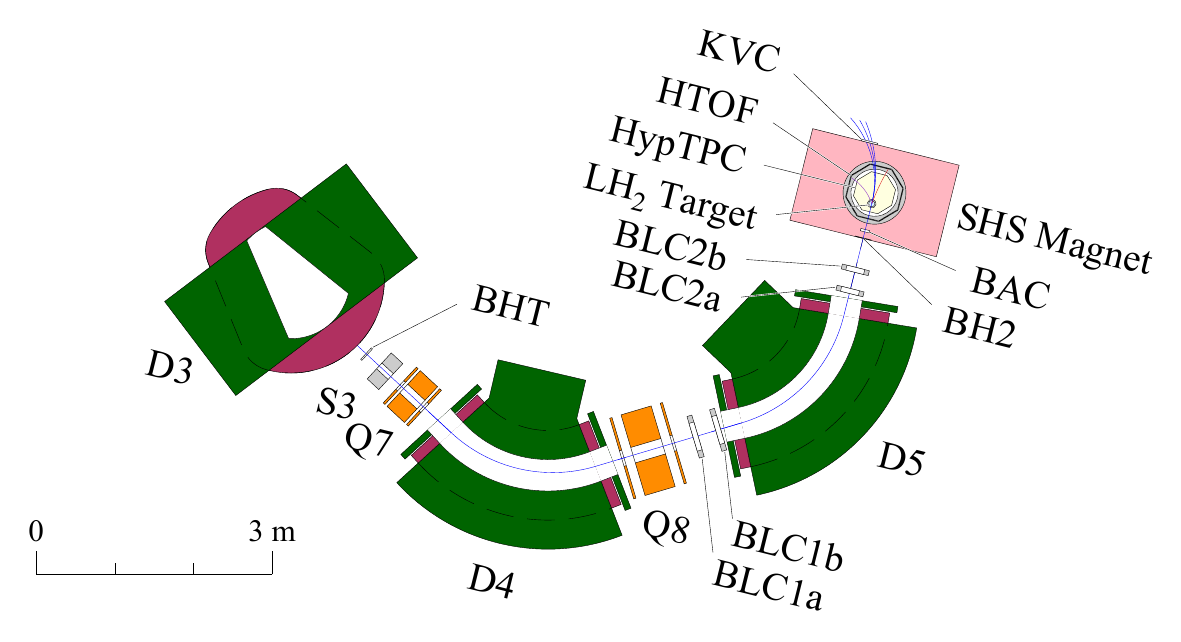
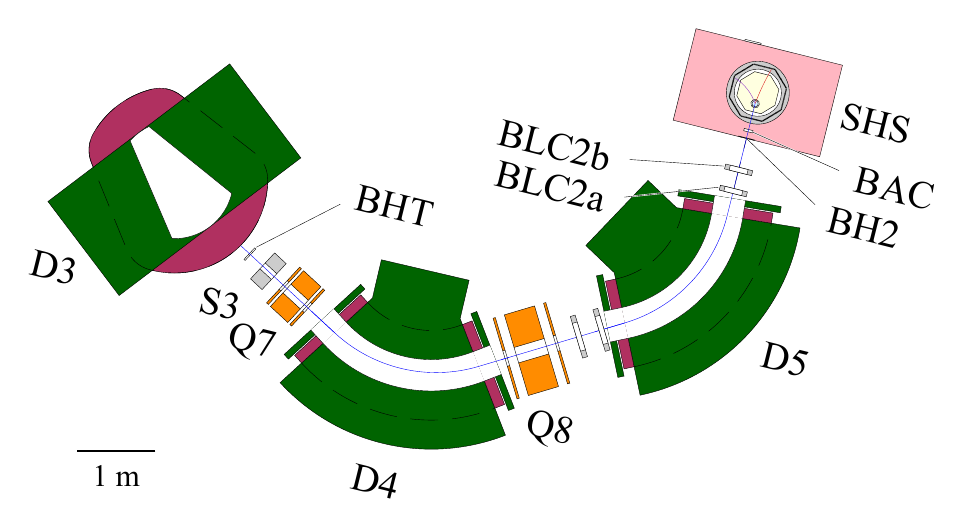
BAC NIM paper version of the figure.
Turn off the beam tracks, keep the Lambda decay pair, switch the scale
bar to a configurable 1 m bar (scale_length in config.yml), and trim
the labels (SHS, and BLC2/BAC/BH2/D-magnets) for the NIM layout. Note
the 8.37 m BHT-BH2 flight length in the README and refresh example.png.

diff --git a/module/shs.py b/module/shs.py
@@ -107,7 +107,7 @@ def draw_hyptpc():
   y = [-l, l, w, w, l, -l, -w, -w, -l]
   with ps.transform():
     ps.draw_polygon(x, y, cfg.color_light_yellow)
-  ps.draw_tag('HypTPC', 0, 250, 0, -1)
+  # ps.draw_tag('HypTPC', 0, 250, 0, -1)
 
 #______________________________________________________________________________
 def draw_htof():
@@ -124,7 +124,7 @@ def draw_htof():
       for j in range(n_seg):
         ps.translate_xy(2*x, 0)
         ps.draw_box(x, z, cfg.color_white)
-  ps.draw_tag('HTOF', 0, 340, 140, -4)
+  # ps.draw_tag('HTOF', 0, 340, 140, -4)
 
 #______________________________________________________________________________
 def draw_magnet():
@@ -136,7 +136,7 @@ def draw_magnet():
   ps.draw_box(yoke_x, yoke_z, cfg.color_light_pink)
   ps.draw_circle(yoke_hole_outer_r, cfg.color_light_gray)
   ps.draw_circle(yoke_hole_inner_r, 1)
-  ps.draw_tag('SHS Magnet', 0, 1100, 0, 0)
+  ps.draw_tag('SHS', 0, 1100, 0, 0)
 
 #______________________________________________________________________________
 def draw_target():
@@ -149,4 +149,4 @@ def draw_target():
   # ps.draw_circle(r, cfg.color_white)
   r = 80 / 2
   ps.draw_circle(r, cfg.color_light_cyan)
-  ps.draw_tag('LH|2| Target', 0, 20, -20, -5)
+  # ps.draw_tag('LH|2| Target', 0, 20, -20, -5)

diff --git a/module/driftchamber.py b/module/driftchamber.py
@@ -41,8 +41,7 @@ def draw_blc1(label):
     ps.translate_xy(0, l)
     ps.draw_box(w, t, cfg.color_light_gray)
     ps.draw_box(w_window, t, cfg.color_white)
-    # Leader-line tag; the angle un-rotates the text to the ff orientation.
-    ps.draw_tag('BLC1'+label, 2 * phi_e - 180, w + 20, 0, tag_type)
+    # ps.draw_tag('BLC1'+label, 2 * phi_e - 180, w + 20, 0, tag_type)
 
 #______________________________________________________________________________
 def draw_blc2(label):

diff --git a/module/misc.py b/module/misc.py
@@ -25,10 +25,10 @@ def draw_ff():
 #______________________________________________________________________________
 def draw_scale():
   ps.comment('Scale of length')
-  x = 5000
+  x = 4700
   y = -7700
-  scale_length = 3000
-  n_tic = 3
+  scale_length = cfg.scale_length*1e3
+  n_tic = int(cfg.scale_length)
   tic_size = 300
   subtic_size = 150
   ps.set_font(font=cfg.font, font_size=cfg.font_size*0.8)

diff --git a/module/counter.py b/module/counter.py
@@ -89,7 +89,7 @@ def draw_kvc():
   with ps.transform(x, y, geom.ff_angle):
     ps.translate_xy(-216, 0)
     ps.draw_box(w, t, cfg.color_white)
-    ps.draw_tag('KVC', 0, 110, 10, -6)
+    # ps.draw_tag('KVC', 0, 110, 10, -6)
 
 #______________________________________________________________________________
 def draw_sac3():

diff --git a/README.md b/README.md
@@ -6,6 +6,9 @@ experimental setup in the K1.8BR beam line, output as PDF via PostScript.
 
 ![Example](example.png)
 
+The beam flight length from BHT to BH2, along the central orbit through
+D4 and D5, is about 8.37 m.
+
 Setup
 -----
 
